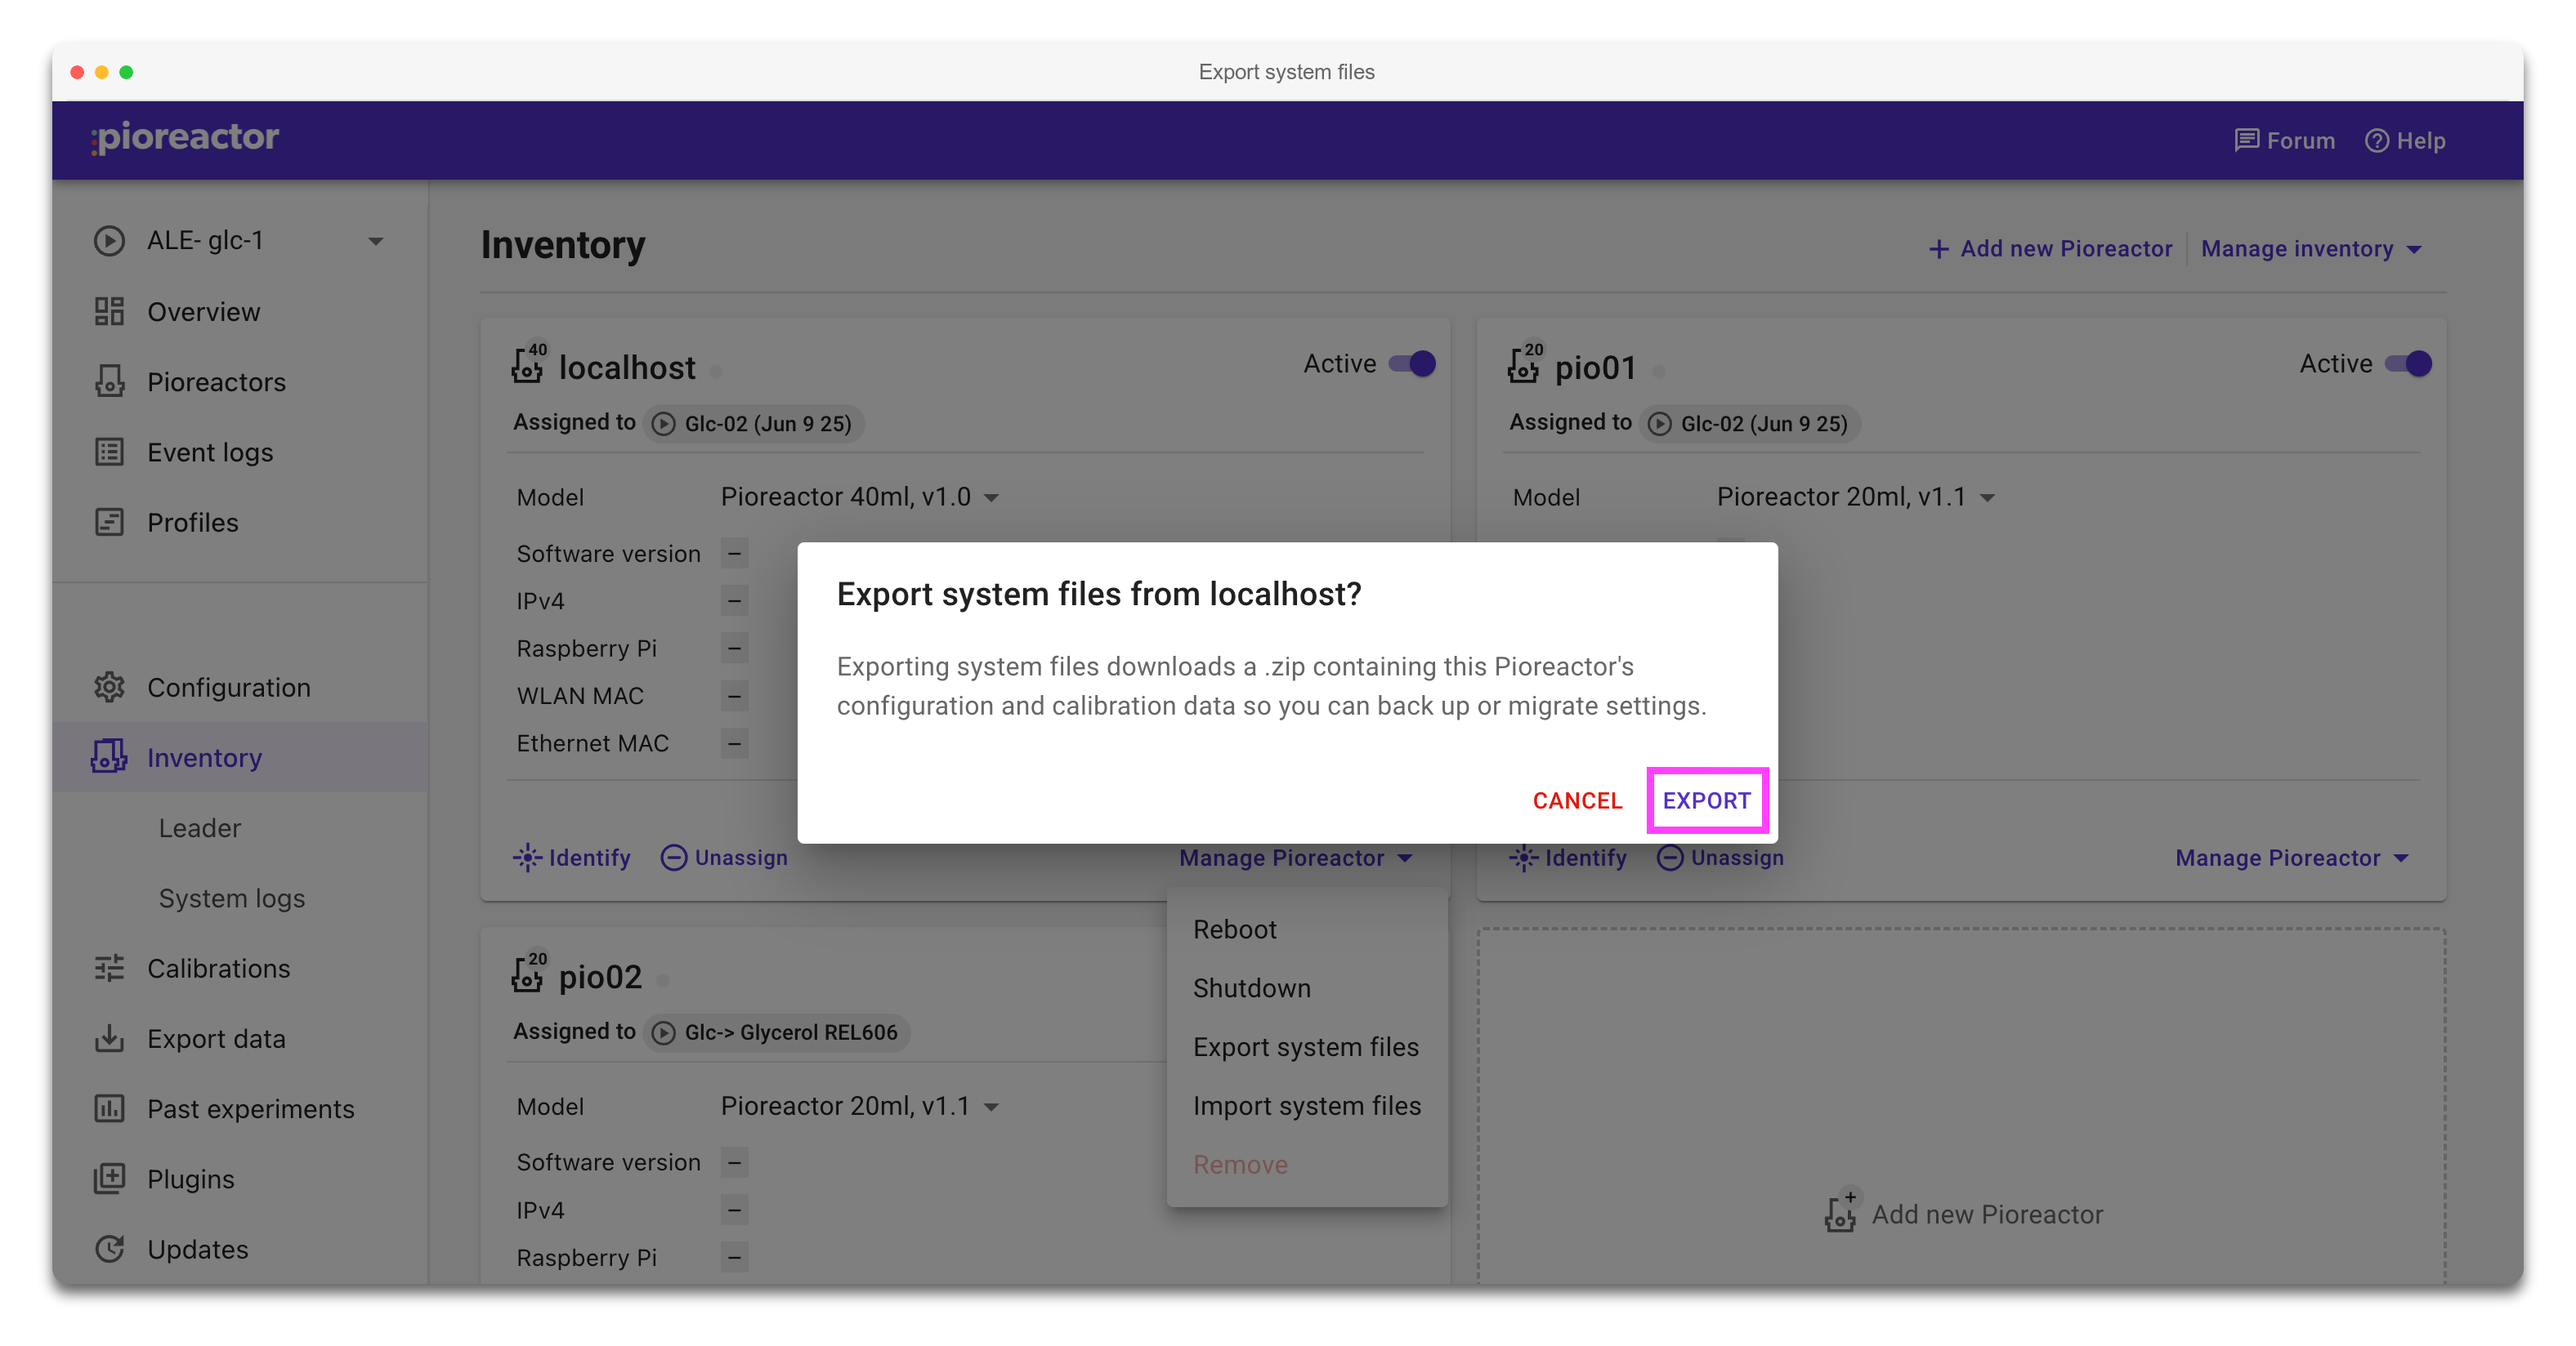
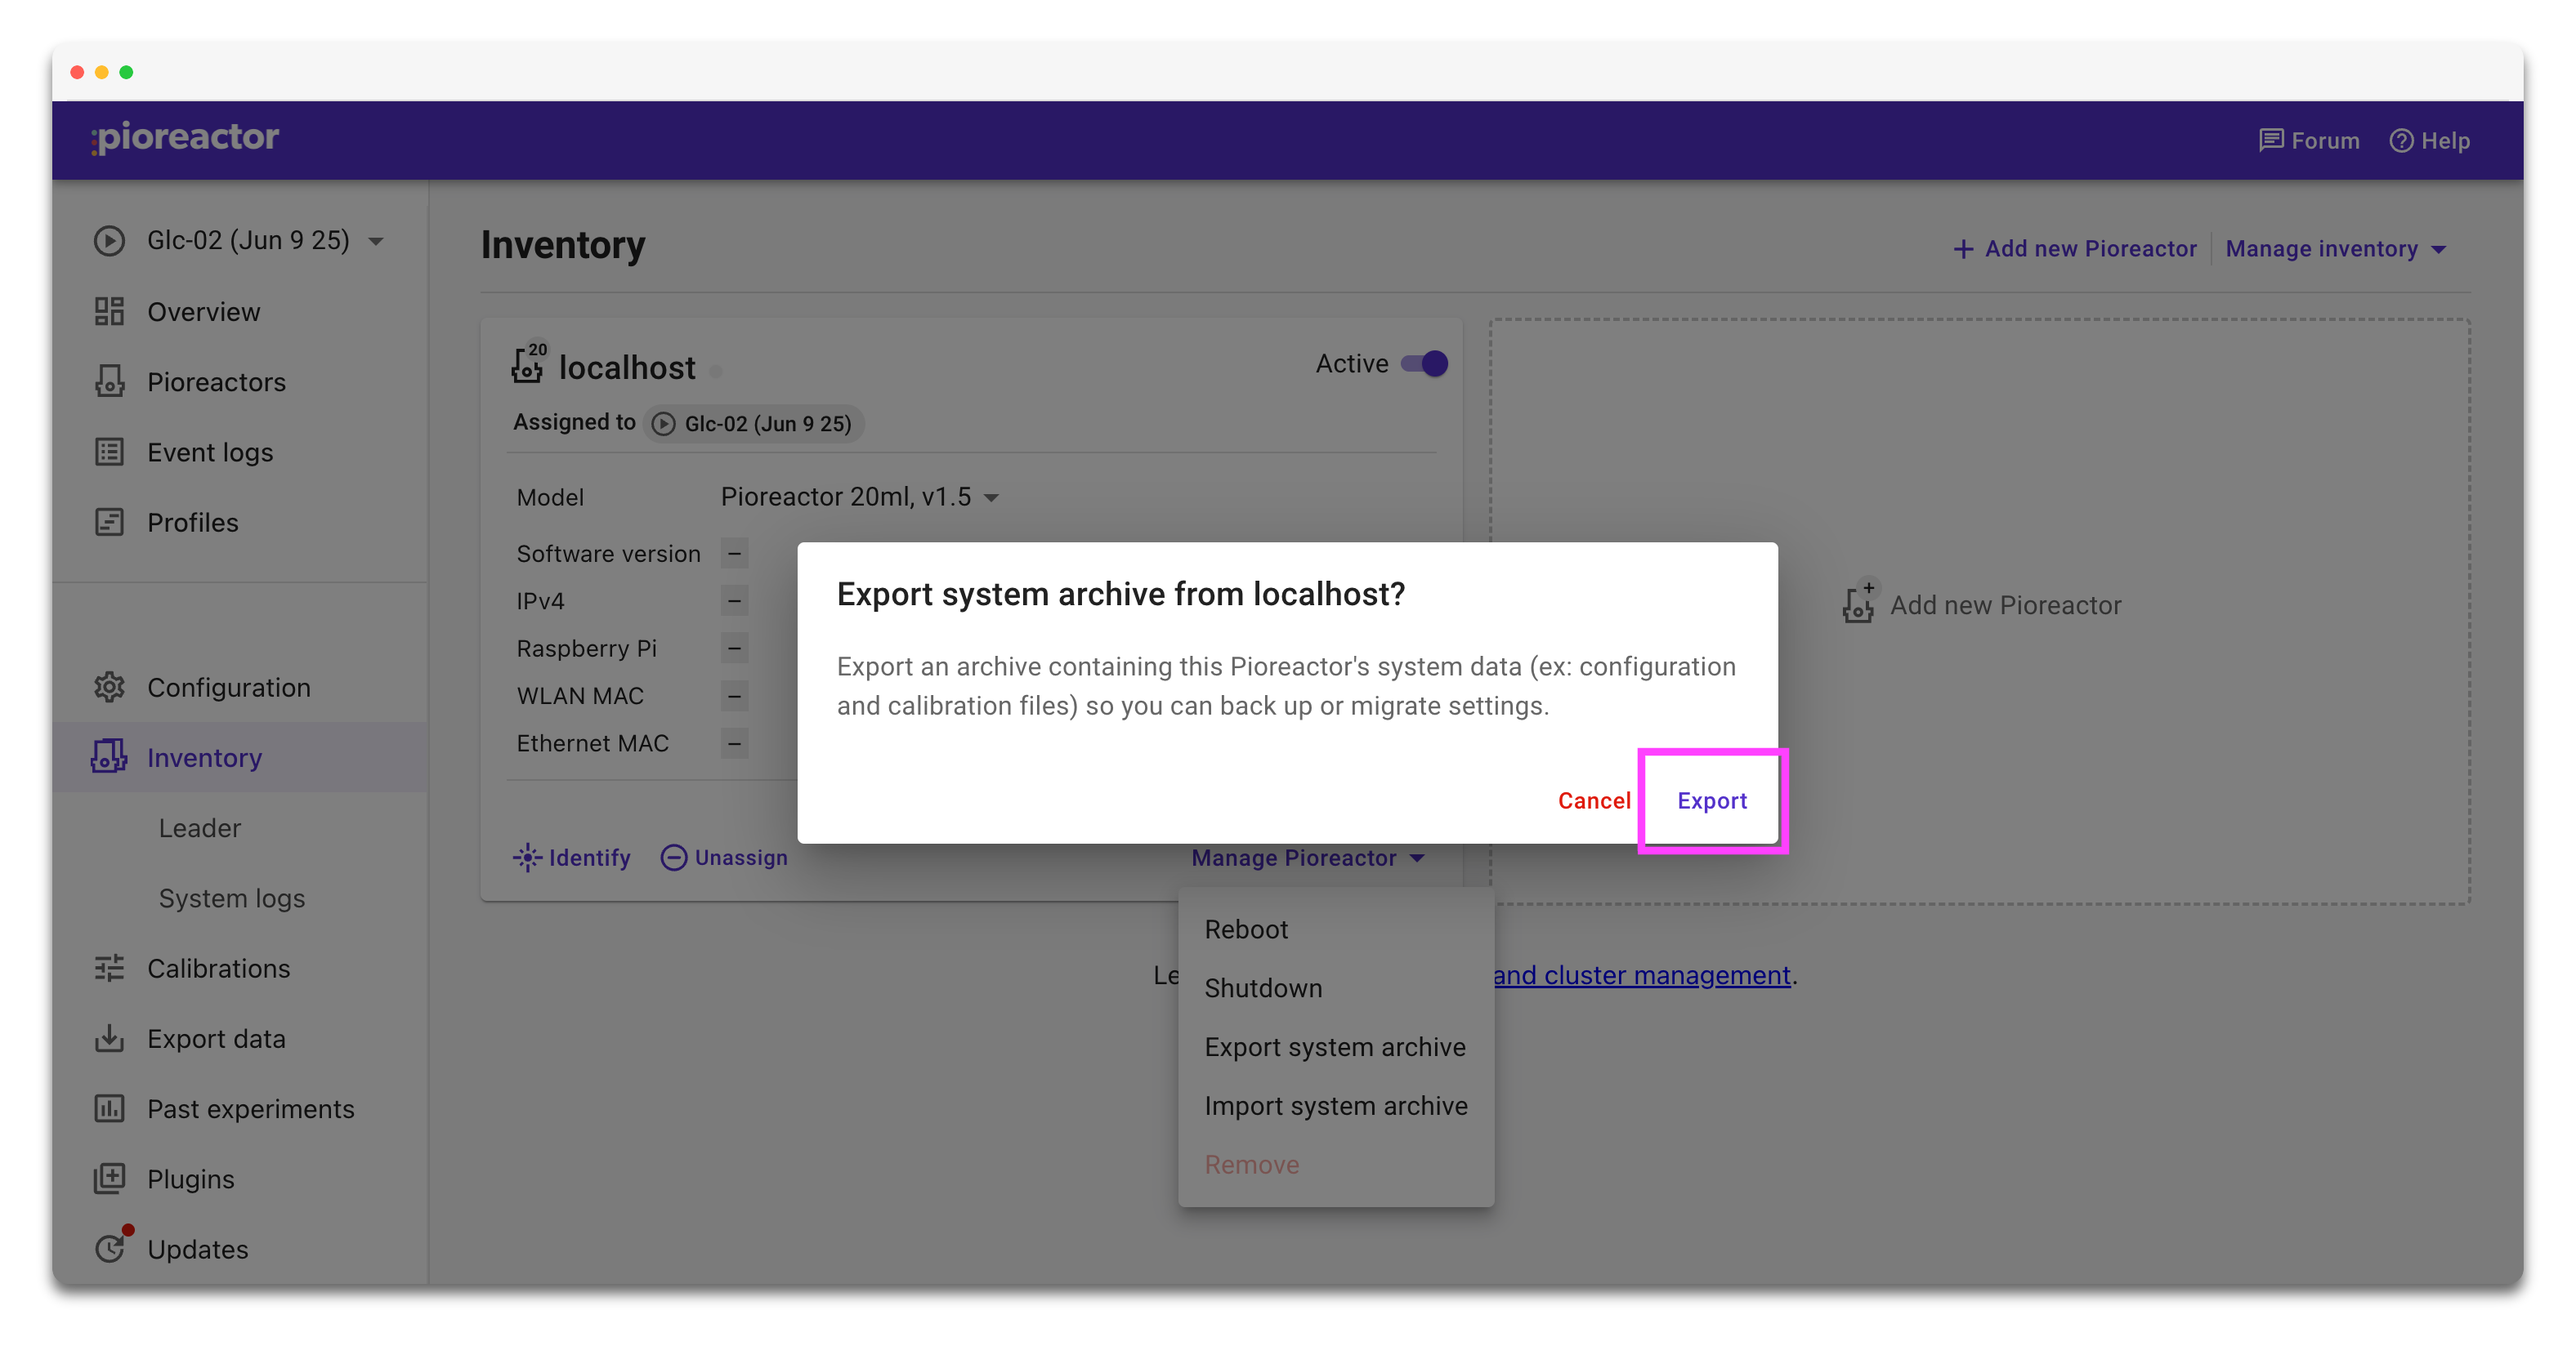
more about custom models

diff --git a/developer-guide/10-Hardware/10-custom-hardware.md b/developer-guide/10-Hardware/10-custom-hardware.md
@@ -1,0 +1,83 @@
+---
+title: Customize your Pioreactor hardware
+slug: /developer-guide/custom-hardware
+description: Extend or override Pioreactor hardware definitions by layering YAML files that hardware.py reads.
+hide_table_of_contents: true
+---
+
+Pioreactor's hardware layer is intentionally data-driven. Everything in [`core/pioreactor/hardware.py`](https://github.com/pioreactor/pioreactor/blob/main/core/pioreactor/hardware.py) loads user-editable YAML files from `~/.pioreactor/hardware/` (or the folder pointed to by the `DOT_PIOREACTOR` env var). By editing these files you can rewire pins, add new peripherals, or describe an entirely new bioreactor model without touching the Python code. Pair these configs with [custom bioreactor model definitions](/custom-bioreactor-models) so the UI, safety limits, and wiring stay in sync.
+
+## How the loader works
+
+`hardware.py` deep-merges two directories for each **mod** (subsystem):
+
+1. `~/.pioreactor/hardware/hats/<hat_version>/<mod>.yaml` – physical wiring that ships with a specific HAT revision (`hardware_version_info`).
+2. `~/.pioreactor/hardware/models/<model>/<version>/<mod>.yaml` – intent for a particular bioreactor model returned by `get_pioreactor_model()`.
+
+Later layers override earlier ones. Missing files are allowed; missing keys throw `HardwareError`s when helpers such as `get_pwm_to_pin_map()` run.
+
+Common mods defined inside `hardware.py` are:
+
+- `pwm.yaml` (`get_pwm_controller`, `get_heater_pwm_channel`, `get_pwm_to_pin_map`)
+- `gpio.yaml` (`get_pcb_led_pin`, `get_hall_sensor_pin`, `get_sda_pin`, `get_scl_pin`)
+- `temp.yaml` (`get_temp_address`, used by `is_heating_pcb_present`)
+- `adc.yaml` (`get_adc_curriers`, which subsequently powers PD channel helpers)
+- `dac.yaml` (`get_dac_address`)
+
+You can add additional mods with any key/value structure—`get_layered_mod_config("my_mod")` will still combine the YAML files.
+
+## Step-by-step: add a custom hardware profile
+
+1. **Create directories** for your HAT and model version.
+   ```bash
+   mkdir -p ~/.pioreactor/hardware/hats/<hat_version>
+   mkdir -p ~/.pioreactor/hardware/models/<model_name>/<model_version>
+   ```
+   Use `pioreactor.version.hardware_version_info` (for hats) and your `pioreactor.models` entry for models.
+
+2. **Describe the wiring** (hat layer). Example `~/.pioreactor/hardware/hats/0.2/pwm.yaml`:
+   ```yaml
+   controller: hat_mcu
+   heater_pwm_channel: "5"
+   pwm_to_pin:
+     "1": 17
+     "2": 13
+     "5": 18
+   ```
+   These keys map directly to `_load_pwm_cfg()` in `hardware.py`.
+
+3. **Describe the capabilities** (model layer). Suppose you added a new auxiliary photodiode ADC:
+   ```yaml title="~/.pioreactor/hardware/models/my_model/v1.0/adc.yaml"
+   pd1:
+     driver: ADS1115
+     address: 0x48
+     channel: 0
+   aux:
+     driver: pico
+     address: 0x40
+     channel: 0
+   salty:
+     driver: ADS1115
+     address: 0x49
+     channel: 2
+   ```
+   `get_adc_curriers()` will automatically expose `.keys()` for every entry (`pd1`, `aux`, `salty`). Downstream helpers, like `get_available_pd_channels()`, treat `pd*` names as photodiode channels.
+
+4. **Reference new mods in code**. Anywhere in your plugin/automation you can import:
+   ```python
+   from pioreactor.hardware import get_layered_mod_config
+
+   stir_cfg = get_layered_mod_config("stirrer")  # merges hats/<hat>/stirrer.yaml and models/<model>/stirrer.yaml
+   if stir_cfg.get("controller") == "pico":
+       ...
+   ```
+   This keeps custom hardware logic outside Pioreactor core.
+
+## Tips for customization
+
+- Use integers for all addresses and pins; `hardware.py` casts everything via `int()` and will raise if parsing fails.
+- Keep YAML minimal—only override keys that differ from the hat defaults to take advantage of deep-merge layering.
+- The helper predicates (`is_ADC_present`, `is_heating_pcb_present`, etc.) are safe ways to gate optional hardware in your jobs.
+- Store supporting scripts, cad files, or calibration notes under `~/.pioreactor/hardware/<...>/README.md` so teammates know how to reproduce the wiring.
+
+Once you describe the hardware this way, the rest of the stack—jobs, automations, plugins—just asks `hardware.py` for the capabilities it needs, so new hardware becomes a configuration exercise instead of a fork of the core codebase.

diff --git a/user-guide/03-Extending your Pioreactor/01-cluster-management/03-backup-and-restore-system-files.md b/user-guide/03-Extending your Pioreactor/01-cluster-management/03-backup-and-restore-system-files.md
@@ -6,17 +6,17 @@ description: Export and import a Pioreactor’s ~/.pioreactor directory from the
 hide_table_of_contents: true
 ---
 
-Each Pioreactor keeps its configuration, calibration data, and persistent state inside `~/.pioreactor`. The Inventory page now lets you export that directory as a zip for safekeeping and import it onto the same unit when you need to restore or clone a setup.
+Each Pioreactor keeps its configuration, calibration data, and persistent state inside `~/.pioreactor`. The Inventory page now lets you export that directory as a system archive (`.zip`) for safekeeping and import it onto the same unit when you need to restore or clone a setup.
 
-![Manage Pioreactor menu showing export and import actions highlighted](/img/user-guide/inventory-export-import-menu.png)
+![Manage Pioreactor menu showing Export system archive and Import system archive actions highlighted](/img/user-guide/inventory-export-import-menu.png)
 
-## Exporting system files
+## Exporting a system archive
 
-1. Open the **Inventory** page, find the Pioreactor you want to back up, and click **Manage Pioreactor → Export system files**.
-2. Confirm the export when prompted. The UI downloads a file named `<pioreactor>_dot_pioreactor.zip`.
+1. Open the **Inventory** page, find the Pioreactor you want to back up, and click **Manage Pioreactor → Export system archive**.
+2. Review the dialog and click **Export** when ready. The UI downloads a file named `<pioreactor>_dot_pioreactor.zip`.
 3. Store the archive somewhere safe. It contains every file from that unit’s `~/.pioreactor` plus a `pioreactor_export_metadata.json` descriptor (hostname, version, export time).
 
-![Export system files confirmation dialog with the export button highlighted](/img/user-guide/inventory-export-dialog.png)
+![Export system archive confirmation dialog with the Export button highlighted](/img/user-guide/inventory-export-dialog.png)
 
 After you confirm, the browser saves a zip named `<pioreactor>_dot_pioreactor.zip`.
 
@@ -25,15 +25,19 @@ After you confirm, the browser saves a zip named `<pioreactor>_dot_pioreactor.zi
 - Since the export is over http, you may need to "approve" your browser to download it (check the download tab in your browser).
 - For the leader Pioreactor, it's also exporting the sqlite database. This might take a while for very large databases.
 
-## Importing system files
+## Importing a system archive
 
 Use imports when you need to restore a backup, duplicate a Pioreactor after replacing hardware, or bring back calibration data after re-flashing an SD card.
 
-1. On the **Inventory** page, choose **Manage Pioreactor → Import system files**.
-2. Read the warning and confirm. You will be prompted to select a `.zip` generated by the export flow.
+1. On the **Inventory** page, choose **Manage Pioreactor → Import system archive**.
+2. Read the warning and click **Select system archive file**, then pick a `.zip` generated by the export flow.
 3. Wait for confirmation in the snackbar. The UI shows a spinner while uploading and tells you when the Pioreactor begins rebooting.
 
-![Import system files confirmation dialog with the import button highlighted](/img/user-guide/inventory-import-dialog.png)
+:::danger Important
+Importing wipes the existing `~/.pioreactor` on that unit before restoring the archive, so anything not inside the uploaded zip is permanently removed.
+:::
+
+![Import system archive confirmation dialog with the Select system archive file button highlighted](/img/user-guide/inventory-import-dialog.png)
 
 Important behaviour to note:
 

diff --git a/developer-guide/10-Hardware/11-custom_models.md b/developer-guide/10-Hardware/11-custom_models.md
@@ -1,0 +1,75 @@
+---
+title: Custom bioreactor models
+slug: /custom-bioreactor-models
+hide_table_of_contents: true
+---
+
+:::tip
+This feature is actively under development - let us know what else you would like to see!
+:::
+
+If you are building a novel bioreactor on top of our software, you can use the `~/.pioreactor/models` dir to add your own bioreactors. This metadata flows into the Inventory UI, safety interlocks, analytics, and can be consumed from Python via `pioreactor.whoami.get_pioreactor_model()`.
+
+## Directory layout
+
+1. Create the models folder if it does not exist:
+   ```bash
+   mkdir -p ~/.pioreactor/models
+   ```
+2. Add one YAML file per model+version, for example `~/.pioreactor/models/custom_100ml__v1_0.yaml`.
+3. Restart the Pioreactor UI to pick up the new definition.
+4. Assign pioreactors to this new model on the Inventory UI page or via `pio workers update-model ...` tool.
+
+## Required fields
+
+Each YAML is validated against `pioreactor.structs.Model`, so include at least:
+
+- `model_name`: slug-style identifier (`custom_100ml`).
+- `model_version`: semantic-ish version (`"1.0"`).
+- `display_name`: friendly label shown in the Inventory.
+- `reactor_capacity_ml`: physical vessel size.
+- `reactor_max_fill_volume_ml`: operational maximum before spilling.
+- `reactor_diameter_mm`: used by stirring + growth-rate heuristics.
+- `max_temp_to_reduce_heating`, `max_temp_to_disable_heating`, `max_temp_to_shutdown`: temperature safety thresholds in °C.
+
+## Example definition
+
+```yaml title="~/.pioreactor/models/custom_100ml.yaml"
+model_name: custom_100ml
+model_version: "1.0"
+display_name: "Custom 100 mL, v1.0"
+reactor_capacity_ml: 100.0
+reactor_max_fill_volume_ml: 95.0
+reactor_diameter_mm: 50.0
+max_temp_to_reduce_heating: 80.0
+max_temp_to_disable_heating: 85.0
+max_temp_to_shutdown: 90.0
+```
+
+After saving the file, the Inventory page will list “Custom 100 mL, v1.0” in each unit’s model dropdown. The same data becomes available to jobs and plugins:
+
+```python
+from pioreactor.whoami import get_pioreactor_model
+
+model = get_pioreactor_model()
+print(model.display_name)
+print(model.reactor_capacity_ml)
+```
+
+## Coordinating with hardware profiles
+
+Model definitions describe intent (volumes, limits), while the hardware loader handles wiring, pin assignments, and sensor addresses. When you introduce a new model, you usually need a matching directory under `~/.pioreactor/hardware/models/<model_name>/<model_version>/` so [`hardware.py` can layer the right YAMLs](/developer-guide/custom-hardware). Keeping the names and versions identical lets software map UI selections → hardware capabilities.
+
+If you are basing your custom model off an existing Pioreactor model, can reuse the hardware for our Pioreactor models:
+
+```
+mkdir -p ~/.pioreactor/hardware/models/<model_name>/<model_version>
+cp ~/.pioreactor/hardware/models/pioreactor_40ml/1.5/* ~/.pioreactor/hardware/models/<model_name>/<model_version>
+
+```
+
+## Validation and troubleshooting
+
+- Run `python -m pioreactor.models` to ensure your YAML parses; validation errors are also logged via the `models` logger.
+- If a model is missing from the dropdown, confirm the filename ends with `.yaml`/`.yml`, the process has read permissions, and the Pioreactor services have restarted.
+- Treat this directory like code: commit the YAMLs to version control alongside any CAD notes or lab SOPs so teammates understand the assumptions behind each model.
